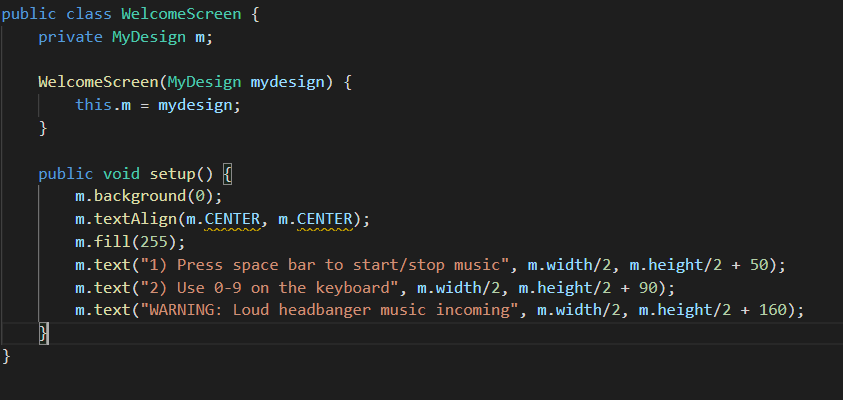
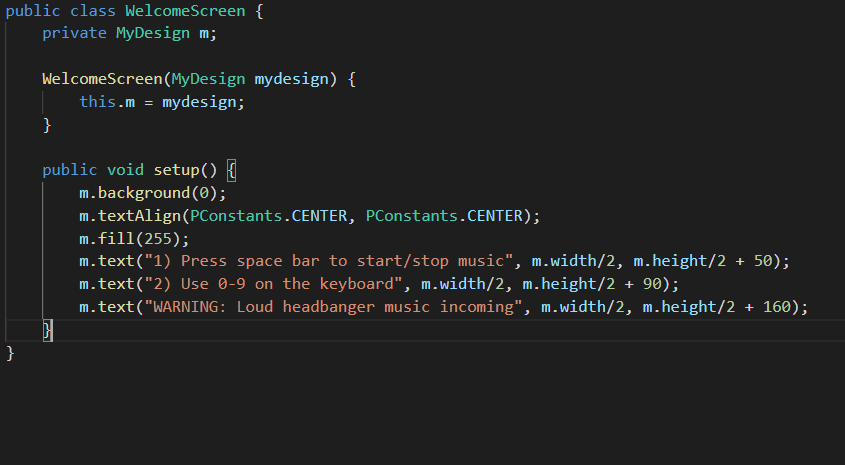
update readMe, added screenshots of code

diff --git a/java/src/C19313793/WelcomeScreen.java b/java/src/C19313793/WelcomeScreen.java
@@ -1,5 +1,7 @@
 package C19313793;
 
+import processing.core.PConstants;
+
 public class WelcomeScreen {
     private MyDesign m;
 
@@ -9,7 +11,7 @@ public class WelcomeScreen {
 
     public void setup() {
         m.background(0);
-        m.textAlign(m.CENTER, m.CENTER);
+        m.textAlign(PConstants.CENTER, PConstants.CENTER);
         m.fill(255);
         m.text("1) Press space bar to start/stop music", m.width/2, m.height/2 + 50);
         m.text("2) Use 0-9 on the keyboard", m.width/2, m.height/2 + 90);
